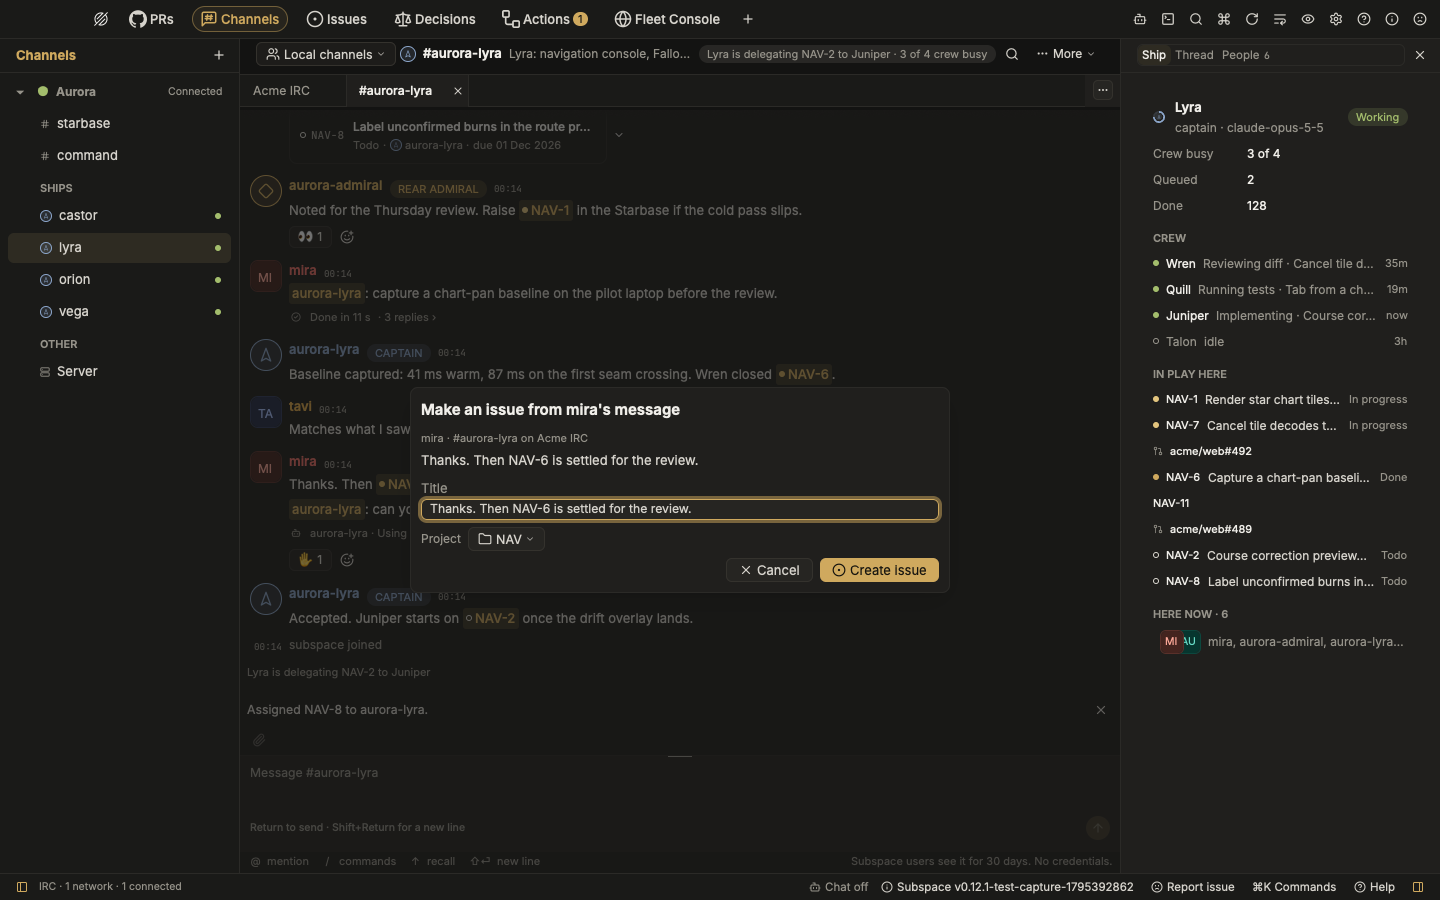
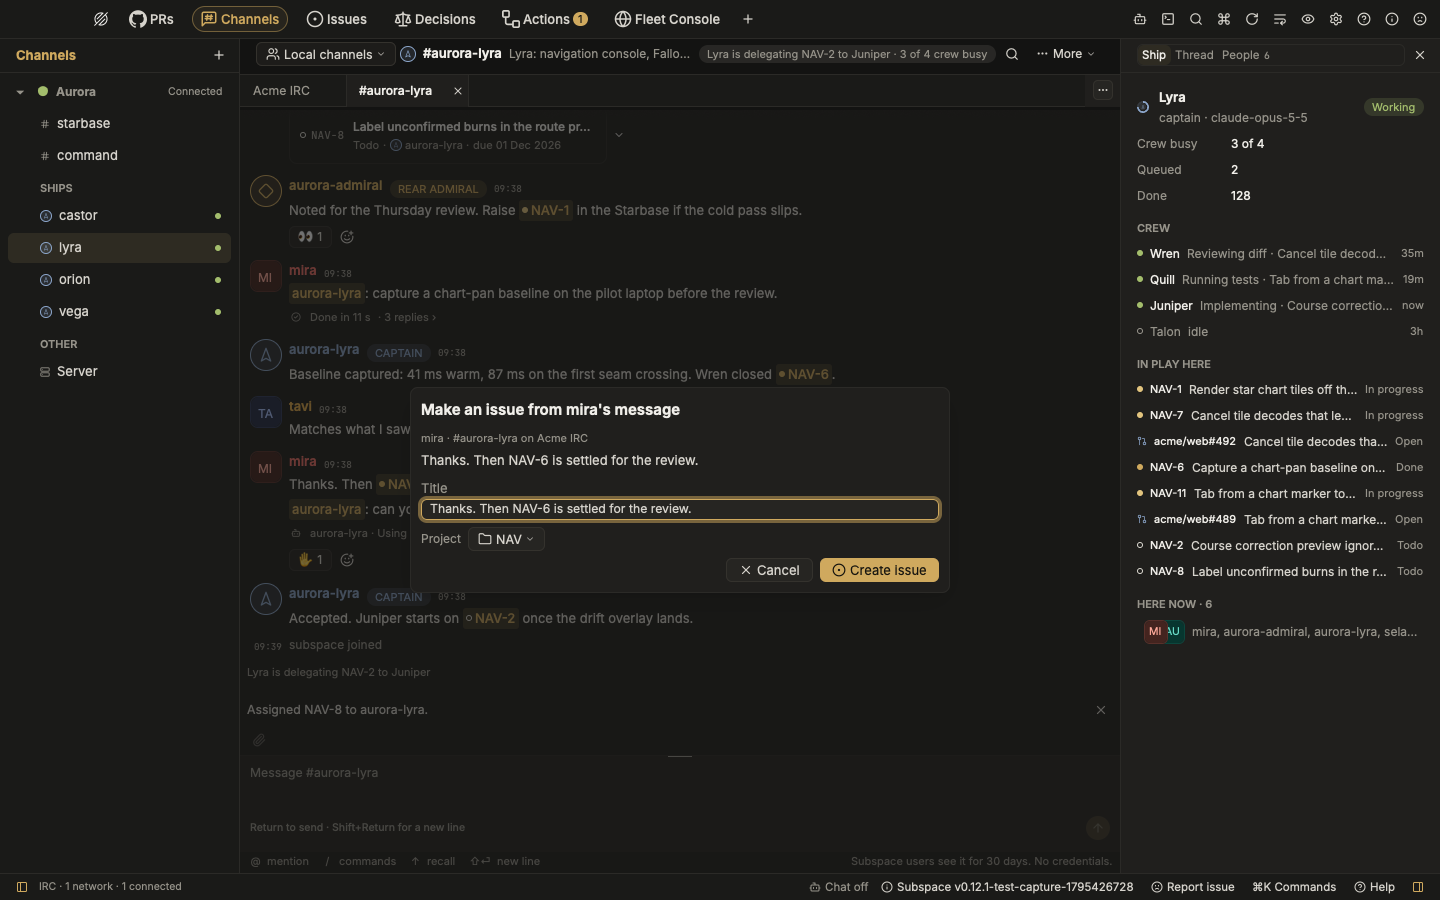
docs(irc): retake the tracker captures on main and record the PR 72 review fixes
The five captures were taken before the merge with main; they are taken
again on the merged branch in Twilight Two at 1440 x 900, with the same
fictional Acme IRC fixture. The change record lists the eight findings
carried over from the reactions reviews and how each was fixed, and
points at the reaction menu's new module.

Changed region(s): [[0.7812, 0.0933, 1.0, 0.7467], [0.9375, 0.0933, 1.0, 0.1556], [0.75, 0.9644, 0.7812, 0.9956]]

diff --git a/subspace-desktop/docs/changes/channels-tracker-commands/README.md b/subspace-desktop/docs/changes/channels-tracker-commands/README.md
@@ -76,7 +76,7 @@ do the same as its buttons.
 
 | Action | Shown when | Does |
 | --- | --- | --- |
-| **Add reaction** | the network supports reactions and the message has a `msgid` | Opens the reactions piece's menu at the message, stop group included when its conditions hold (`reacting::open_choices_for`). |
+| **Add reaction** | the network supports reactions and the message has a `msgid` | Opens the reactions piece's menu at the message, stop group included when its conditions hold (`reacting::open_choices_for`, in `conversation/reacting/menu.rs`). |
 | **Reply in thread** | the inspector has a Thread tab and the server carries reply tags; the message has a `msgid` | Opens the thread and starts reply mode, which sends to the channel. |
 | **Make issue…** | tracker writes work here | Opens the dialog. |
 | **Record decision…** | tracker writes work here, and the message names an issue or the conversation has shown one | Opens the dialog. |
@@ -146,8 +146,9 @@ pills and the `r` key open the same menu as the toolbar's React.
   `suggest`, `write`, `flow`, `quote`, `message`, `message/view`),
   `transcript/actions.rs`, the composer's completion (`compose/suggest.rs`,
   `compose/suggest/choice.rs`, `compose/offer.rs`, `compose/send.rs`),
-  `conversation/keys.rs` (`t`, `i`, `d`, hover), `conversation/reacting.rs`
-  (`open_choices_for`), `fleet.rs` (agents' user IDs and ships),
+  `conversation/keys.rs` (`t`, `i`, `d`, hover),
+  `conversation/reacting/menu.rs` (`open_choices_for`), `fleet.rs`
+  (agents' user IDs and ships),
   `issues/follow.rs` (`refresh`).
 - Fixture: the Subspace API fixture takes `readyForAgents` by the API's
   rule, assigns the aurora fleet's captains by their record's user IDs and
@@ -189,10 +190,64 @@ Checks: `cargo fmt`, Clippy with warnings denied and the tests of
 `mise run architecture`, and `mise run quality` in both projects (no
 findings, no regression).
 
+## Review findings
+
+Carried over from the reviews of the
+[reactions pull request](../channels-reactions/README.md) (PR 72), each
+checked against the code after merging `main`, fixed in its own commit
+with a regression test:
+
+1. **An open Stop menu sent after the message stopped qualifying**
+   (medium). Choosing **Stop \<ship\>** now reads the live roster, the held
+   message and its status line again (`conversation/reacting/menu.rs`,
+   `labelled_stop`; `reactions/stop.rs`, `concerning`); the stop goes only
+   while they still name a running agent, under the name read then, and is
+   explained otherwise.
+2. **A deferred Retry kept its first deadline after a queued read started
+   later** (medium, `clients/fleet`). A waiting Retry remembers when it was
+   asked and the service when each read actually started
+   (`service/retry.rs`): a read that started after the Retry has answered
+   it; otherwise it waits for a read in flight to land and for five seconds
+   from that read's start. This also covers the Opus pass's extra
+   keychain read inside the interval.
+3. **Accountless matching merged a nick's new holder into the previous
+   holder's record** (medium, `clients/irc`). An accountless record now
+   matches only when it belongs to the nick's current holder
+   (`groups/record.rs`, `current`).
+4. **A nick change reported once per shared channel advanced the nick's
+   stamp twice** (medium). The book remembers each network's last rename;
+   the same rename reported again, moving nothing, leaves the stamp alone.
+5. **Every reaction update rebuilt every open conversation** (medium).
+   `ReactionBook::apply` and `mark_seen` say whether anything shown changed
+   and the book keeps a revision per conversation; a discarded update wakes
+   nothing, and a conversation reads its reactions again only when its
+   revision or held lines changed.
+6. **A stop's acknowledgement depended on room in the display book**
+   (low). The hub remembers our latest live additions before the book's
+   limits (`Reactions::echoed_since`); a pending stop is acknowledged by an
+   echo after it was sent and is let go after two minutes without one (the
+   Opus pass's unpruned pending list).
+7. **An empty roster let reactions through in a private conversation**
+   (P3). Until the initiatives first load (`Catalog::checking`), a private
+   conversation takes no reaction (`Roster::not_known_yet`), with a plain
+   notice. The composer's own rule for messages is unchanged.
+8. **`/raw` could send a tagged `TAGMSG` privately** (noted). The
+   private-recipient rule (`private_recipients`) now reads TAGMSG lines as
+   it reads PRIVMSG and NOTICE, so the composer refuses one to an agent.
+
+The merge also kept `main`'s final reactions code: the toolbar's **Add
+reaction** opens the same menu, whose every choice goes through
+`reacting::toggle` and its gate, and **Reply in thread** uses the Thread
+tab's reply mode (`compose::reply::start`, sending `Command::Reply`). The
+Issues Space's contract test now counts its `issues@1/refresh` response.
+
 ## Captures
 
-Captured on macOS with `make capture` at 1440 x 900 (`resize:1440,900`) in
-Twilight Two, with `CAPTURE_FLEET=1 CAPTURE_FLEET_API=1` so the roster knows
+Retaken after the merge with `main` (its final reactions, Thread tab and
+live fleet state). Captured on macOS with `make capture` at 1440 x 900
+(`resize:1440,900`) in Twilight Two with the Icons setting at its default
+(Small), with `CAPTURE_STATE='{"app.dashboard":"irc"}'` so it opens on
+Channels and `CAPTURE_FLEET=1 CAPTURE_FLEET_API=1` so the roster knows
 the aurora fleet's ships and the API fixture has its issues, against a fresh
 loopback Ergo 2.19.1 (`scripts/irc-test-server.sh` with
 `IRC_TEST_LISTEN=127.0.0.1:16954`) and
